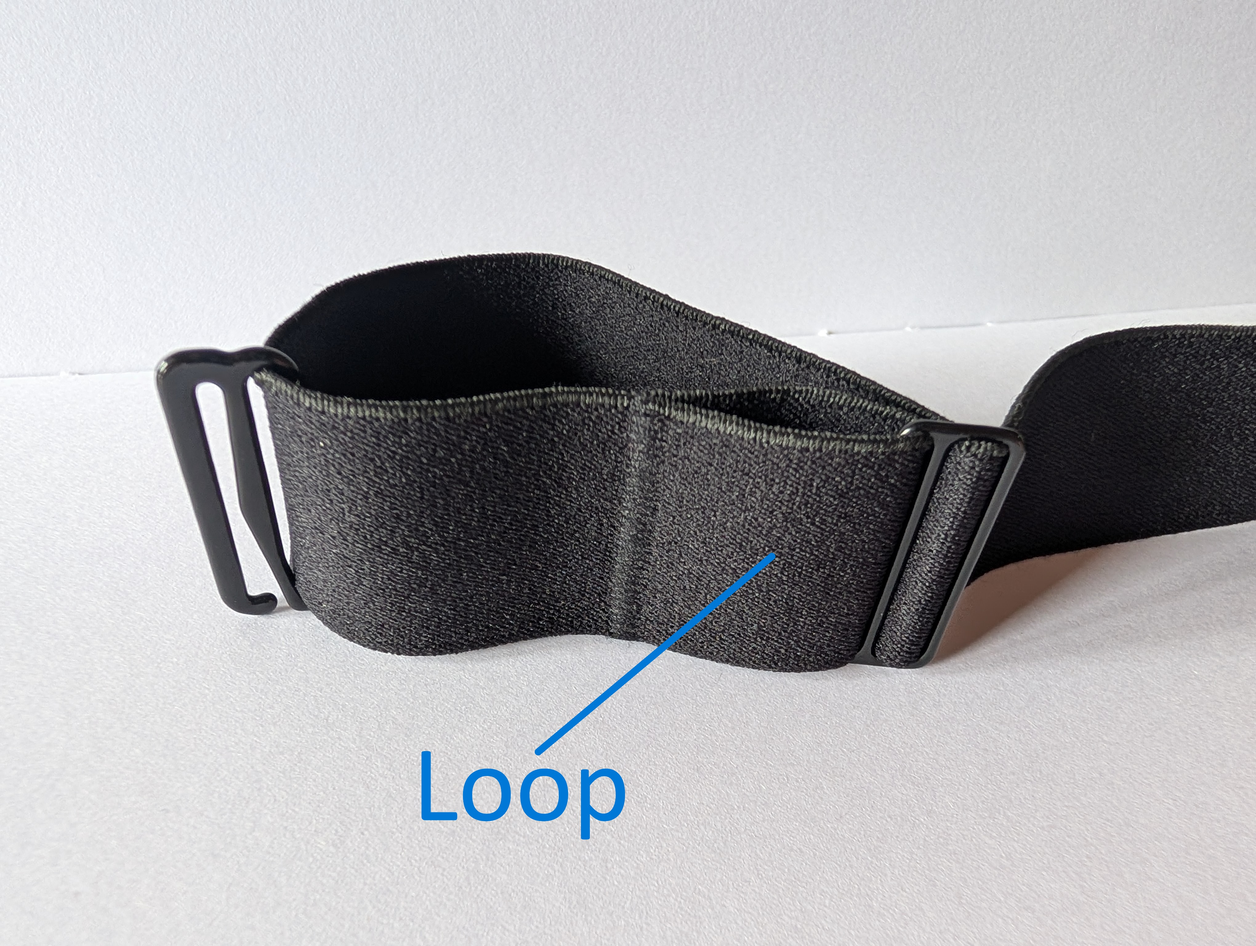
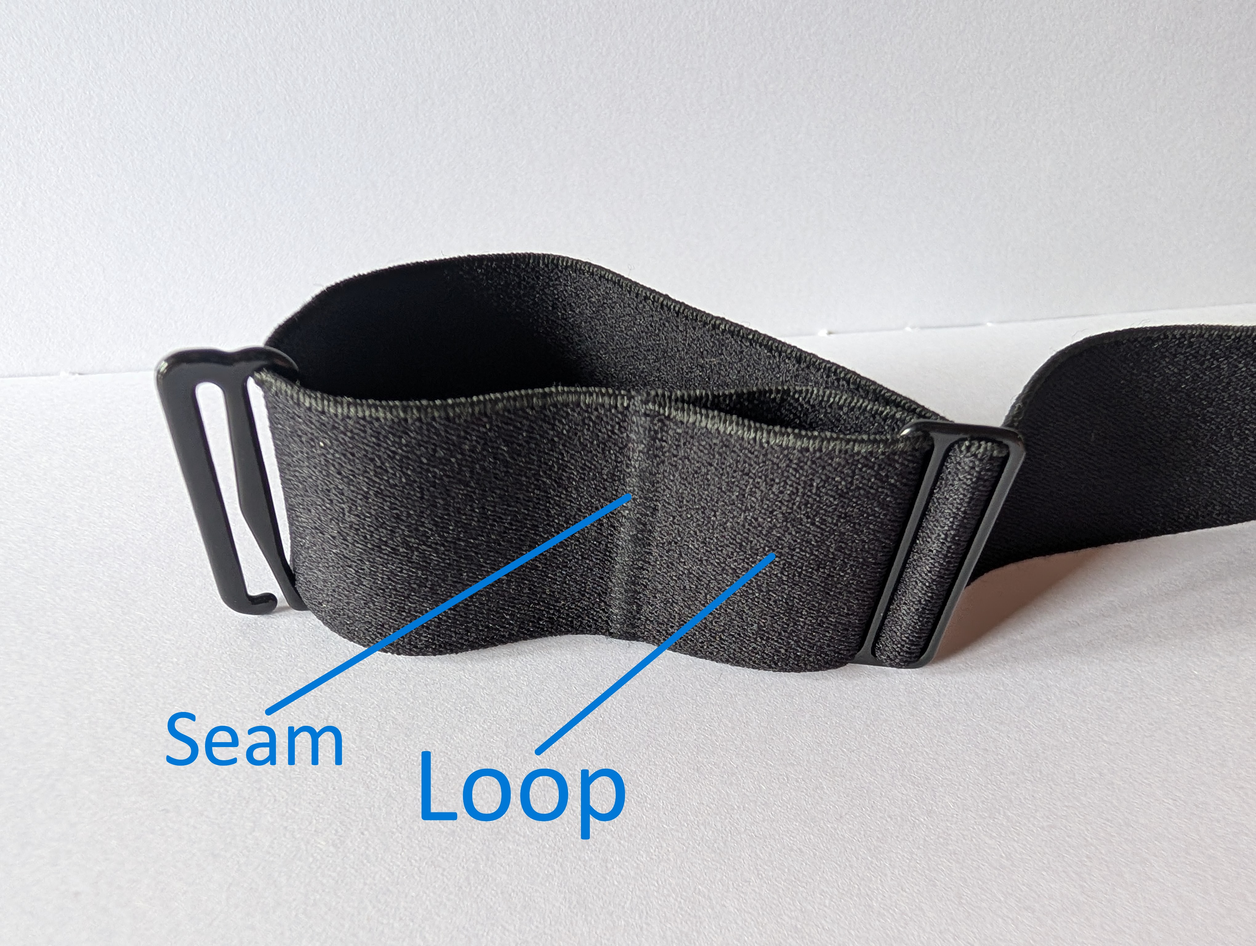
Updated photo, updated assembly

diff --git a/docs/_pages/final-assembly.md b/docs/_pages/final-assembly.md
@@ -129,11 +129,95 @@ on the Quad/Tri slide.
 &nbsp;
 
 
-## Step 4. 
+## Step 4. Shorten the strap by cutting at least 12 cm (5") above the seam.
+
+The photos below this cut. Note, for illustrative purpose the scissor is shown
+at a much shorter distance.
+
+&nbsp;
+<div style="display: flex; flex-direction: row; align-items: flex-start;">
+  <figure style="margin: 0; width: 42%;">
+    <img src="{{ site.url }}/OSSMM/media/final-assembly/shortening-cut-1.jpg" alt="Front view of OSSMM headband" style="width: 100%;">
+    <figcaption style="text-align: center; font-style: italic; margin-top: 5px;">Pre-cut Sticthed Loop </figcaption>
+  </figure>
+  <figure style="margin: 0; width: 50%; margin-left: 4%;">
+    <img src="{{ site.url }}/OSSMM/media/final-assembly/shortening-cut-2.jpg" alt="Back view of OSSMM headband" style="width: 100%;">
+    <figcaption style="text-align: center; font-style: italic; margin-top: 5px;">Post-cut Sticthed Loop</figcaption>
+  </figure>
+</div>
+&nbsp;
 
 
+Due to the difference length straps will have based on the brand, the length to 
+cut will change. Remember, you can always cut more off, but you can't add it back.
+In our case, a 15 cm (6") cut was suitable.
+
+<figure style="margin: 0; width: 50%; margin-left: 4%;">
+  <img src="{{ site.url }}/OSSMM/media/final-assembly/removed.jpg" alt="Back view of OSSMM headband" style="width: 100%;">
+  <figcaption style="text-align: center; font-style: italic; margin-top: 5px;">Post-cut Sticthed Loop</figcaption>
+</figure>
+
+&nbsp;
+## Step 5. Insert the cut end into the open slot making a new loop.
+
+Take the newly cut end and insert it through the now open slot. The band should 
+go towards the interior. This way when it is worn there is no band flopping in 
+the back.
+
+<figure style="margin: 0; width: 50%; margin-left: 4%;">
+  <img src="{{ site.url }}/OSSMM/media/final-assembly/removed.jpg" alt="Back view of OSSMM headband" style="width: 100%;">
+  <figcaption style="text-align: center; font-style: italic; margin-top: 5px;">Post-cut Sticthed Loop</figcaption>
+</figure>
+&nbsp;
+
+Under typical circumstances the tension should hold this loose end in place. 
+However, over time it may come loose with repeated use. We leave it to the user
+to choose if they would like to employ additional methods to secure it. We
+present two feasible options:
+
+1. Create a new seam using a basic sewing kit.
+2. Use a standard quality stapler with paper staples.
+
+The stapler is the preferred method. When done properly with a quality stapler, 
+staples are virtually invisible and are not felt at all. Staples should be done
+with the legs initially pointing towards the interior of the bead, that is
+towards the head area. When closed properly, the staple legs will clinch back
+outward, facing away from the head area.
 
 # Insert the Strap into the Receiver
 
-# Install the Electronic Case 
+Now that the strap is prepared, we will insert the strap into the receiver!
+
+<figure style="margin: 0; width: 50%; margin-left: 4%;">
+  <img src="{{ site.url }}/OSSMM/media/final-assembly/removed.jpg" alt="Back view of OSSMM headband" style="width: 100%;">
+  <figcaption style="text-align: center; font-style: italic; margin-top: 5px;">Post-cut Sticthed Loop</figcaption>
+</figure>
+&nbsp;
+
+# Install the Electronic Case
+
+You're almost there! This section should be done with a table as a support, 
+or an additional pair of human hands.
+
+## Step 1. Pull excess strap through the receiver, loop over, and expose the PulseSensor slot
+
+<figure style="margin: 0; width: 50%; margin-left: 4%;">
+  <img src="{{ site.url }}/OSSMM/media/final-assembly/removed.jpg" alt="Back view of OSSMM headband" style="width: 100%;">
+  <figcaption style="text-align: center; font-style: italic; margin-top: 5px;">Post-cut Sticthed Loop</figcaption>
+</figure>
+&nbsp;
+
+## Step 2.Insert the PulseSensor
+
+
+
+## Step 3. Connect the EOG/EEG electrodes
+
+
+
+## Step 4. Slot in the electronics case
+
+## Step 5. You've done it!
+
+
 
